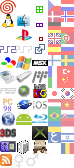
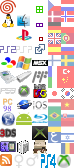
Add PS4 and Xbox One platforms

Changed region(s): [[0.5405, 0.8929, 0.973, 1.0]]

diff --git a/data/style.css b/data/style.css
@@ -851,6 +851,9 @@ a .icons { cursor: pointer }
 .icons.xb1 { background-position: -32px -126px; }
 .icons.p88 { background-position: -32px -140px; }
 
+.icons.ps4 { background-position: -40px -154px; }
+.icons.xbo { background-position: -56px -154px; }
+
 .icons.cs  { background-position: -48px   0px; }
 .icons.da  { background-position: -48px -11px; }
 .icons.de  { background-position: -48px -22px; }
